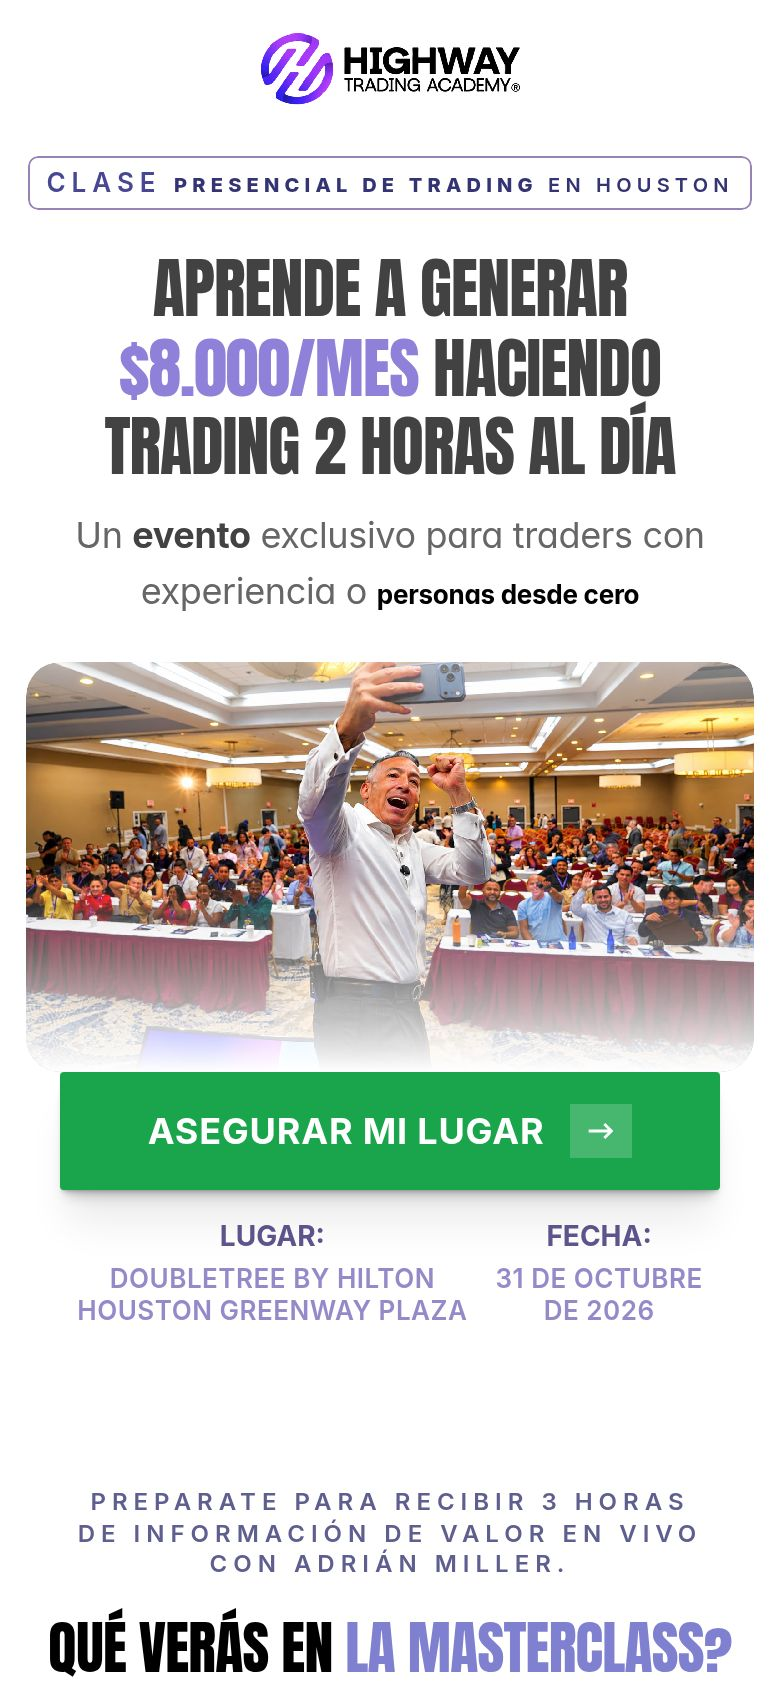
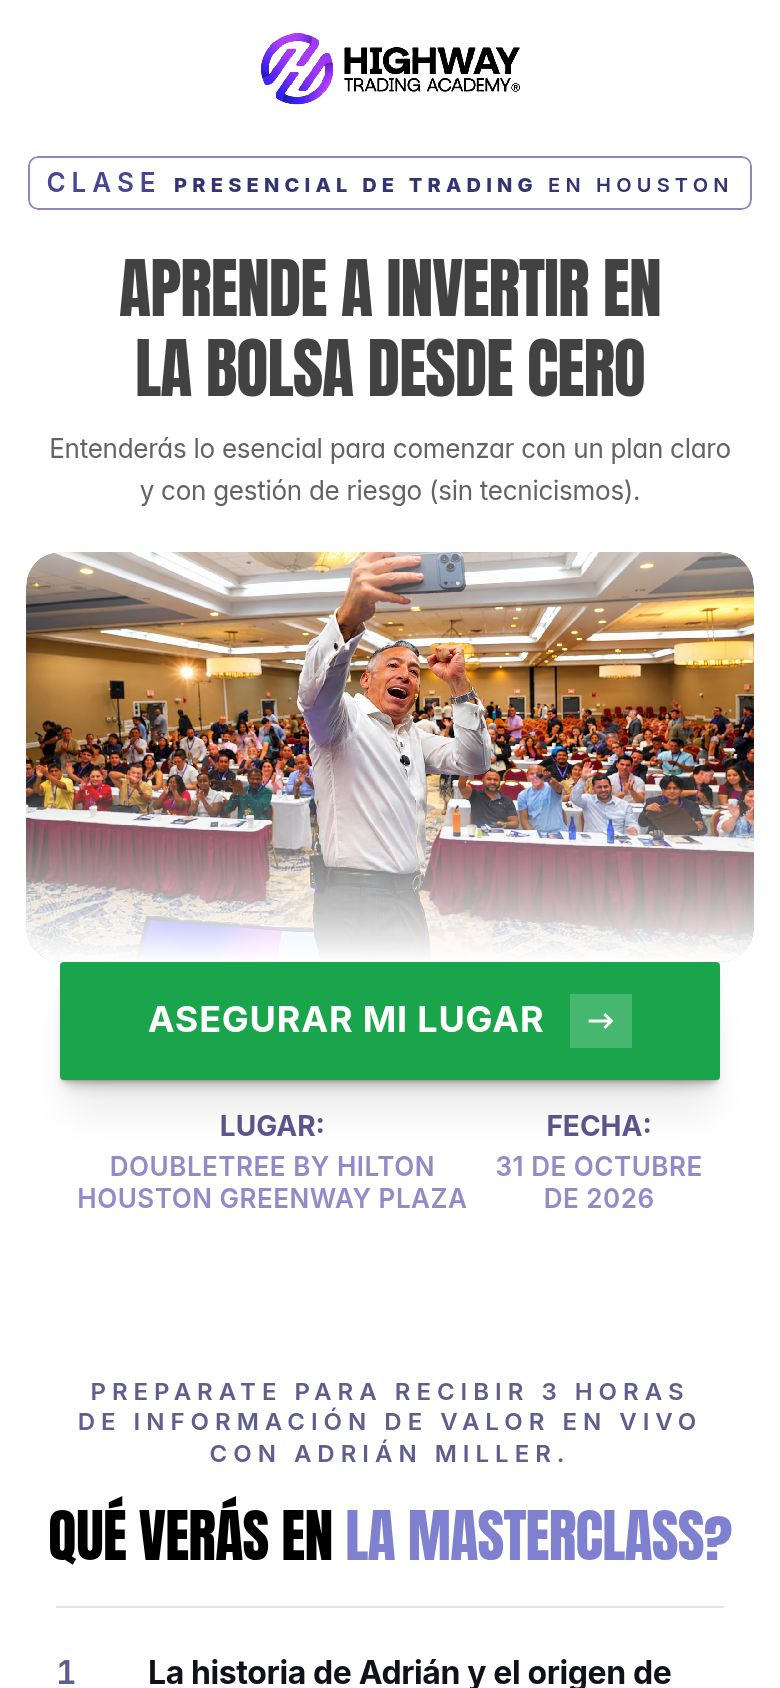
Descripciones de variantes actualizadas, capturas nuevas y etiqueta de anuncio
Claude-Session: https://claude.ai/code/session_01SuaHdPKnJWFymdLi9zhpSb

diff --git a/lib/metrics.js b/lib/metrics.js
@@ -20,10 +20,10 @@ export const EVENTS = [
     // Errores o mejoras de la landing que el dashboard no puede medir. Agregalos acá: aparecen en "Diagnóstico".
     notes: [],
     variants: {
-      TWBcZNpC0: { label: "Control", desc: "La original: subtítulo con el caso del alumno promedio ($3.000/mes), cuenta regresiva y fecha." },
+      TWBcZNpC0: { label: "Control", desc: "La original: mismo título y botón, con el bloque de cuenta regresiva \"Nos vemos hoy\"." },
       xC4TrKpso: {
         label: "Variante B",
-        desc: "Subtítulo \"para traders con experiencia o desde cero\" y lugar del evento en vez de la cuenta regresiva.",
+        desc: "Mismo título y botón, pero muestra lugar (Hilton Fort Lauderdale Marina) y fecha en vez de la cuenta regresiva.",
       },
     },
   },
@@ -38,8 +38,8 @@ export const EVENTS = [
     emailMatch: /^HOU G\d+/,
     notes: [],
     variants: {
-      EydMCY1m5: { label: "Control", desc: "La original: fondo blanco, foto del evento y promesa de $8.000/mes." },
-      zbodSNUpy: { label: "lab", desc: "Rediseño oscuro con Adrián y el skyline de Houston; promesa de $4.000/mes extra." },
+      EydMCY1m5: { label: "Control", desc: "La original: fondo blanco con foto del evento lleno." },
+      zbodSNUpy: { label: "lab", desc: "Rediseño oscuro con Adrián y el skyline de Houston; mismo título, botón, lugar y fecha." },
     },
   },
   {

diff --git a/index.html b/index.html
@@ -1066,7 +1066,7 @@ function adVariantTable(ev) {
     const A = x.byPage[p1.pageId], B = x.byPage[p2.pageId];
     const ra = A ? rate(A.submitters, A.visitors) : null, rb = B ? rate(B.submitters, B.visitors) : null;
     const tag = x.forcedVisitors > x.total * 0.5 ? chip("bad", "Link fija versión") : (A && B && A.visitors >= 30 && B.visitors >= 30) ? (rb > ra ? chip("good", `Mejor: ${esc(p2.label)}`) : ra > rb ? chip("info", `Mejor: ${esc(p1.label)}`) : chip("mute", "Empate")) : chip("mute", "Pocos datos");
-    return `<tr><td><span class="mono">${esc(shortId(x.ad))}</span></td><td>${cell(A)}</td><td>${cell(B)}</td><td>${tag}</td></tr>`;
+    return `<tr><td><span class="mono">${esc(x.ad.startsWith("(") ? x.ad : shortId(x.ad))}</span></td><td>${cell(A)}</td><td>${cell(B)}</td><td>${tag}</td></tr>`;
   }).join("");
   return `<div class="card-sub"><h3>Qué anuncio lleva a cada versión</h3>
     <p class="small muted">Visitantes · % que llena el formulario, por anuncio y versión. Datos de Framer, últimos ${data.range.days} días.</p>
